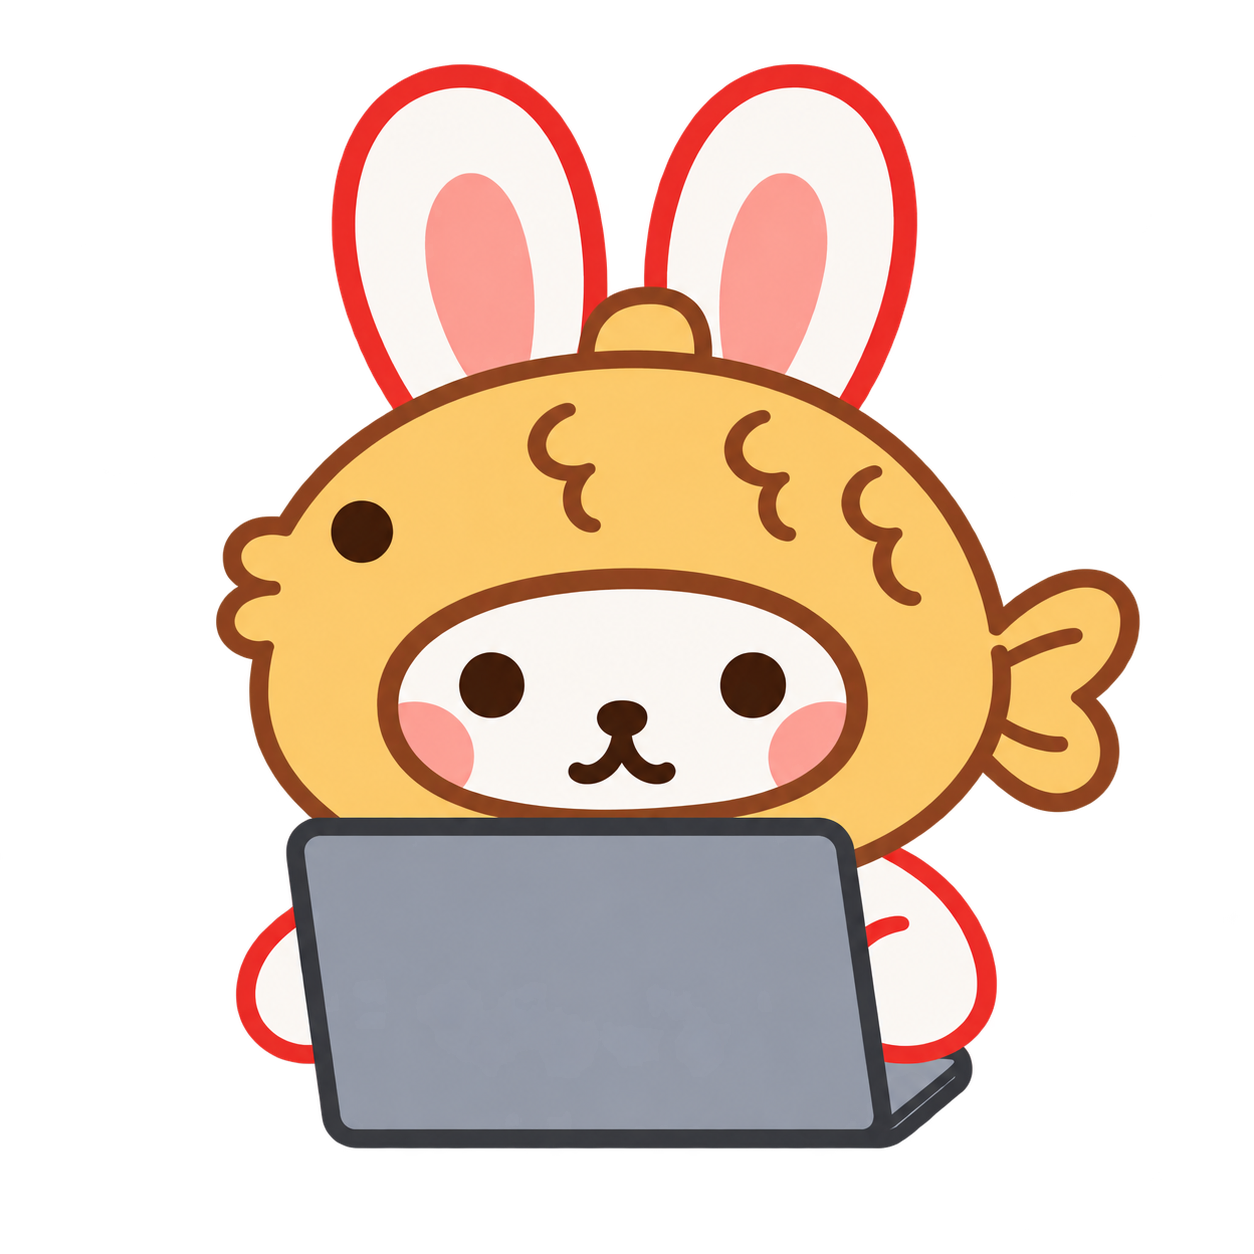
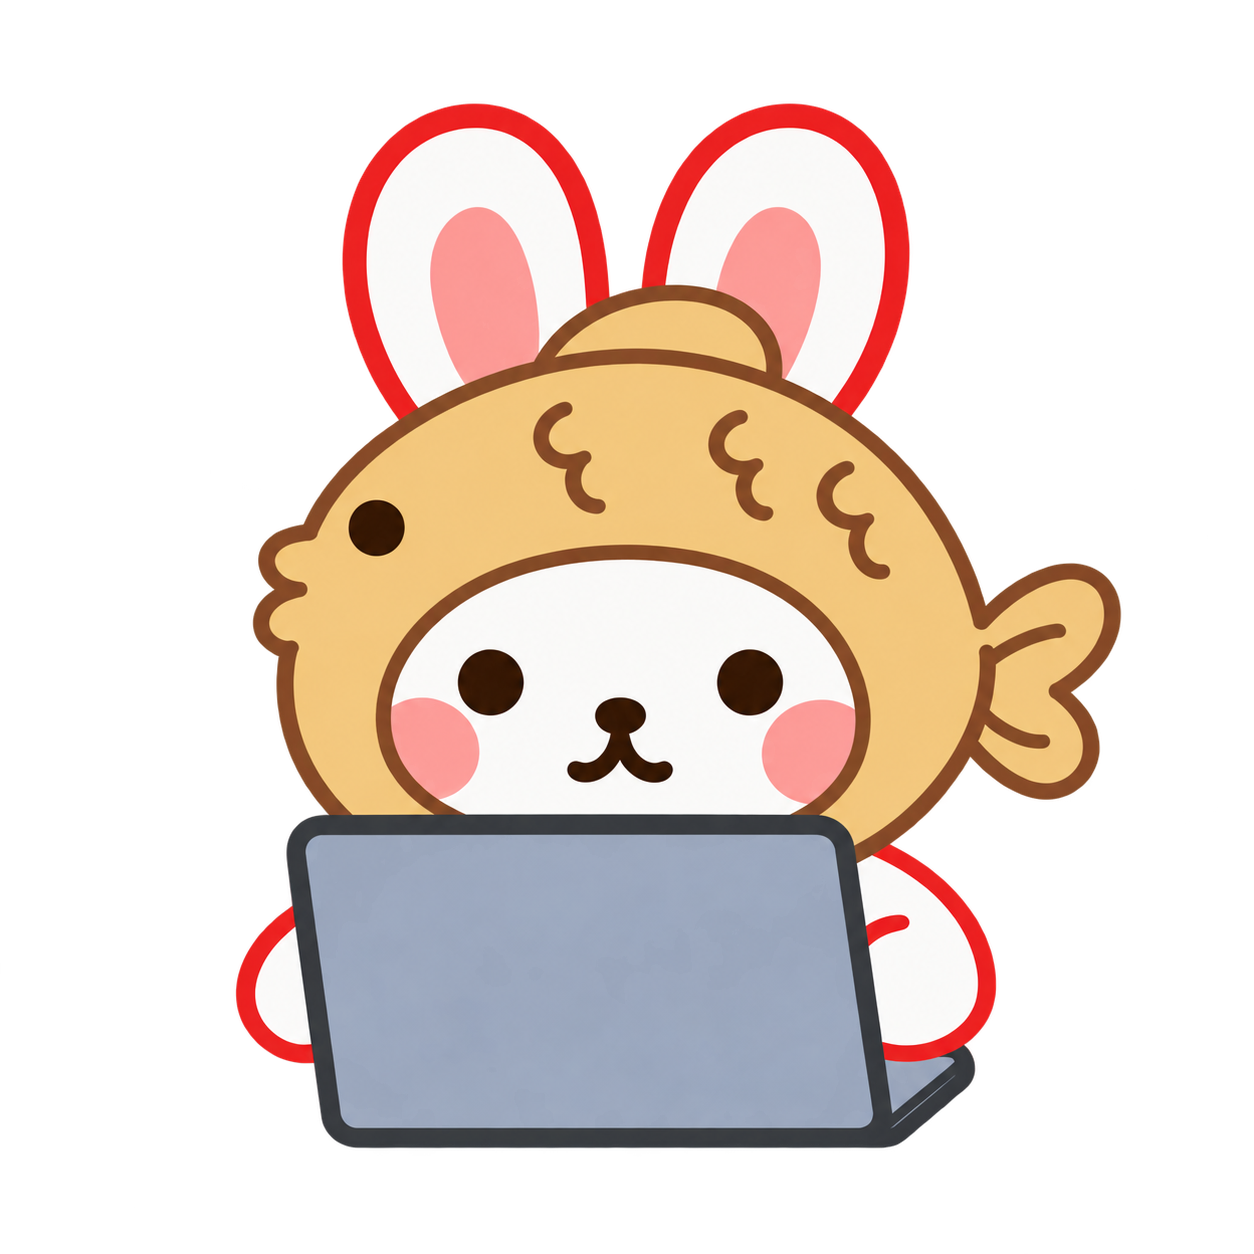
feat: finalize bungeoppang previews and synchronized steam

diff --git a/stories/screens/StudyLayouts.tsx b/stories/screens/StudyLayouts.tsx
@@ -15,10 +15,12 @@ import { useEffect, useState } from 'react';
 import { Image, Pressable, ScrollView, StyleSheet, Text, View } from 'react-native';
 import { AchievementBadge, Button, PressableCard } from '../../src/design/components';
 import { colors, interaction, radius, typography } from '../../src/design/theme';
+import type { CharacterId } from '../../src/lib/characters';
 const imageSource = (asset: number | string) => typeof asset === 'string' ? { uri: asset } : asset;
 const characters = [bunny, bear, cat, puppy];
 
 export type LayoutProps = {
+  character?: CharacterId;
   activeSkinId?: string;
   screen: 'home' | 'focus';
   homeEntryPreview?: boolean;
@@ -45,7 +47,7 @@ function Progress({ seconds, goalMinutes, todayLeave = false }: { seconds: numbe
   return <View style={s.progressRow}><View accessibilityRole="progressbar" accessibilityLabel="목표 달성률" accessibilityValue={percent === null ? { text: '목표 없음' } : { min: 0, max: 100, now: Math.min(percent, 100), text: `${percent}%` }} style={[s.track, todayLeave && { backgroundColor: colors.leaveTrack }]}><View style={[s.fill, { width: `${Math.min(percent ?? 0, 100)}%` }]} /></View><Text style={s.secondary}>{percent === null ? '—' : `${percent}%`}</Text></View>;
 }
 // Storybook-only presentation: no identity, API, router, or running study session.
-export function StudyLayout({ screen, activeSkinId, homeEntryPreview = false, todayLeave = false, onOpenLeave, running = true, seconds: initialSeconds = 4815, goalMinutes = 180, activeFriendCount = 2, name = '다이앤', width = 390, height = 844 }: LayoutProps) {
+export function StudyLayout({ screen, character = 'bunny', activeSkinId, homeEntryPreview = false, todayLeave = false, onOpenLeave, running = true, seconds: initialSeconds = 4815, goalMinutes = 180, activeFriendCount = 2, name = '다이앤', width = 390, height = 844 }: LayoutProps) {
   const [activeScreen, setActiveScreen] = useState(screen);
   const [isRunning, setRunning] = useState(running);
   const [seconds, setSeconds] = useState(initialSeconds);
@@ -88,7 +90,7 @@ export function StudyLayout({ screen, activeSkinId, homeEntryPreview = false, to
       {activeScreen === 'home' ? <>
         <View style={s.summary}><Text style={[s.body, { fontWeight: '600' }]}>오늘 공부한 시간</Text><View style={s.timeRow}>{homeEntryPreview && <StudyControlView round roundSize={56} running={isRunning} onPress={() => setRunning(value => !value)} />}<Text numberOfLines={1} adjustsFontSizeToFit style={[s.metric, s.timeValue, homeEntryPreview && { fontSize: width < 360 ? 34 : 44 }]}>{clock(seconds)}</Text>{achieved && !homeEntryPreview && <View style={s.timeBadge}><AchievementBadge label="달성 완료" /></View>}</View><Progress seconds={seconds} goalMinutes={goalMinutes} todayLeave={todayLeave} /><View style={{ flexDirection: 'row', flexWrap: 'wrap', alignItems: 'center', gap: 12 }}><Pressable accessibilityRole="button" accessibilityLabel={todayLeave ? '연차 탭으로 이동' : '오늘 목표 확인'} onPress={() => todayLeave ? onOpenLeave ? onOpenLeave() : setLeaveDetails(true) : feedback('목표')} style={{ minHeight: 44, flexDirection: 'row', alignItems: 'center', gap: 6 }}><Text style={[s.secondary, todayLeave && { color: colors.leave }]}>{todayLeave ? '✈  오늘 연차' : goal}</Text><ChevronRight size={16} color={todayLeave ? colors.leave : colors.secondary} /></Pressable>{homeEntryPreview && achieved && <AchievementBadge label="달성 완료" />}</View></View>
         <View onLayout={({ nativeEvent }) => setHomeSize(nativeEvent.layout)} style={[s.homeScene, homeEntryPreview && { minHeight: 180, paddingBottom: 0 }]}>
-          {activeSkinId ? <HomeArtwork character="bunny" activeSkinId={activeSkinId} width={homeSize.width} height={homeSize.height} /> : <><Image source={imageSource(homeBackground)} resizeMode="contain" style={backgroundFrame} accessibilityLabel="햇살이 드는 공부방" />
+          {activeSkinId || character !== 'bunny' ? <HomeArtwork character={character} activeSkinId={activeSkinId} width={homeSize.width} height={homeSize.height} /> : <><Image source={imageSource(homeBackground)} resizeMode="contain" style={backgroundFrame} accessibilityLabel="햇살이 드는 공부방" />
           <Image source={imageSource(homeBunny)} resizeMode="contain" style={characterFrame} accessibilityLabel={`${name}의 토끼 캐릭터`} /></>}
           <View style={[s.homeSceneSpace, homeEntryPreview && { minHeight: 180 }]} />
         {homeEntryPreview && friendCount > 0 && <>           <View style={s.friendToast} accessibilityLabel={friendMessage}>
@@ -108,7 +110,7 @@ export function StudyLayout({ screen, activeSkinId, homeEntryPreview = false, to
           <Button label={isRunning ? 'Ⅱ  일시정지' : '▶  공부 시작'} accessibilityLabel={isRunning ? '공부 일시정지' : '공부 시작'} onPress={() => { if (isRunning) setRunning(false); else { setRunning(true); move('focus'); } }} style={{ flex: 1 }} />}
         </View>
       </> : <>
-        <FocusView members={[{ id: 'self', name, time: '나', active: isRunning, character: 'bunny', activeSkinId, self: true }, ...friends.map((friend, index) => ({ id: String(index), name: friend.name, time: friend.time, active: index < friendCount, character: (['bear', 'cat', 'puppy'] as const)[index] }))]} memberCount={4} seconds={seconds} sessionSeconds={28 * 60} goalMinutes={goalMinutes} running={isRunning} onBack={() => move('home')} onFriends={() => feedback('친구')} onToggle={() => setRunning(!isRunning)} />
+        <FocusView members={[{ id: 'self', name, time: '나', active: isRunning, character, activeSkinId, self: true }, ...friends.map((friend, index) => ({ id: String(index), name: friend.name, time: friend.time, active: index < friendCount, character: (['bear', 'cat', 'puppy'] as const)[index] }))]} memberCount={4} seconds={seconds} sessionSeconds={28 * 60} goalMinutes={goalMinutes} running={isRunning} onBack={() => move('home')} onFriends={() => feedback('친구')} onToggle={() => setRunning(!isRunning)} />
       </>}
       {!!notice && <Pressable accessibilityRole="button" accessibilityLabel="미리보기 안내 닫기" onPress={() => setNotice('')} style={s.notice}><Text accessibilityLiveRegion="polite" style={s.caption}>{notice}  ×</Text></Pressable>}
     </ScrollView>

diff --git a/stories/assets/SkinPlacement.stories.tsx b/stories/assets/SkinPlacement.stories.tsx
@@ -2,6 +2,7 @@ import type { Meta, StoryObj } from '@storybook/react-native-web-vite';
 import { useState } from 'react';
 import { Text, View } from 'react-native';
 import { Button } from '../../src/design/components';
+import { characters } from '../../src/features/profile/CharacterPicker';
 import { skinArtwork } from '../../src/design/skin-artwork';
 import { colors, typography } from '../../src/design/theme';
 import { StudyLayout } from '../screens/StudyLayouts';
@@ -11,6 +12,7 @@ type Props = { skinId: string; screen: 'home' | 'focus' | 'comparison'; width: n
 
 function SkinPlacement({ skinId, screen, width, height, compareOriginal }: Props) {
   const [selected, setSelected] = useState(skinId);
+  const character = skinArtwork[selected]?.character ?? 'bunny';
   const screens = screen === 'comparison' ? ['home', 'focus'] as const : [screen];
   const variants = compareOriginal ? [undefined, selected] : [selected];
   return <View style={{ width: '100%', gap: 24, alignItems: 'center' }}>
@@ -25,12 +27,12 @@ function SkinPlacement({ skinId, screen, width, height, compareOriginal }: Props
       <Text style={{ ...typography.title, color: colors.text, textAlign: 'center' }}>{current === 'home' ? '홈 화면' : '집중 화면'}</Text>
       <View style={{ flexDirection: 'row', flexWrap: 'wrap', justifyContent: 'center', gap: 24 }}>
         {variants.map(id => <View key={id ?? 'original'} style={{ gap: 8, maxWidth: '100%' }}>
-          <Text style={{ ...typography.label, color: colors.text, textAlign: 'center' }}>{id ? skinArtwork[id]?.name : '기본 토끼'} · {width}px</Text>
-          {current === 'home' ? <StudyLayout key={`${current}-${id}-${width}-${height}`} screen="home" activeSkinId={id} width={width} height={height} running={false} homeEntryPreview /> : <View style={{ width, height, maxWidth: '100%', borderRadius: 32, borderWidth: 1, borderColor: colors.border, overflow: 'hidden', backgroundColor: colors.background }}>
+          <Text style={{ ...typography.label, color: colors.text, textAlign: 'center' }}>{id ? skinArtwork[id]?.name : `기본 ${characters[character].label}`} · {width}px</Text>
+          {current === 'home' ? <StudyLayout key={`${current}-${id}-${width}-${height}`} screen="home" character={character} activeSkinId={id} width={width} height={height} running={false} homeEntryPreview /> : <View style={{ width, height, maxWidth: '100%', borderRadius: 32, borderWidth: 1, borderColor: colors.border, overflow: 'hidden', backgroundColor: colors.background }}>
             <View style={{ height: 44, paddingHorizontal: 24, justifyContent: 'center' }}><Text style={{ color: colors.text }}>9:41</Text></View>
             <FocusView initialSceneSize={{ width, height: Math.max(240, height - 394) }} members={[
-              { id: 'self', name: '나', time: '1시간 20분', character: 'bunny', activeSkinId: id, self: true, active: true },
-              { id: 'baseline', name: '기본 토끼', time: '53분', character: 'bunny', active: true },
+              { id: 'self', name: '나', time: '1시간 20분', character, activeSkinId: id, self: true, active: true },
+              { id: 'baseline', name: `기본 ${characters[character].label}`, time: '53분', character, active: true },
               { id: 'bear', name: '곰', time: '2시간', character: 'bear', active: true },
               { id: 'cat', name: '고양이', time: '32분', character: 'cat', active: true },
             ]} memberCount={4} seconds={4815} sessionSeconds={1680} goalMinutes={180} running={false} onBack={() => {}} onFriends={() => {}} onToggle={() => {}} />

diff --git a/src/features/study/SkinEffects.tsx b/src/features/study/SkinEffects.tsx
@@ -25,28 +25,25 @@ function useMotionAllowed() {
 }
 
 function Steam({ placement, width, height, phase, strength }: { placement: SkinEffectPlacement; width: number; height: number; phase: number; strength: number }) {
-  const [values] = useState(() => [new Animated.Value(0), new Animated.Value(0)]);
+  const [value] = useState(() => new Animated.Value(0));
   const plumeWidth = placement.width * width;
   const peakOpacity = Math.min(1, placement.opacity * strength);
   useEffect(() => {
-    const loops = values.map((value, index) => {
-      value.setValue(0);
-      const loop = Animated.sequence([
-        Animated.delay(phase + index * 1400),
-        Animated.loop(Animated.sequence([
-          Animated.timing(value, { toValue: 1, duration: 2800, easing: Easing.linear, useNativeDriver: Platform.OS !== 'web', isInteraction: false }),
-          Animated.timing(value, { toValue: 0, duration: 0, useNativeDriver: Platform.OS !== 'web', isInteraction: false }),
-          Animated.delay(1000),
-        ])),
-      ]);
-      loop.start();
-      return loop;
-    });
-    return () => loops.forEach(loop => loop.stop());
-  }, [phase, values]);
+    value.setValue(0);
+    const loop = Animated.sequence([
+      Animated.delay(phase),
+      Animated.loop(Animated.sequence([
+        Animated.timing(value, { toValue: 1, duration: 2800, easing: Easing.linear, useNativeDriver: Platform.OS !== 'web', isInteraction: false }),
+        Animated.timing(value, { toValue: 0, duration: 0, useNativeDriver: Platform.OS !== 'web', isInteraction: false }),
+        Animated.delay(1000),
+      ])),
+    ]);
+    loop.start();
+    return () => loop.stop();
+  }, [phase, value]);
   return <View pointerEvents="none" accessibilityElementsHidden importantForAccessibility="no-hide-descendants" style={{ position: 'absolute', left: placement.x * width - plumeWidth / 2, top: placement.y * height - plumeWidth * .7, width: plumeWidth, height: plumeWidth }}>
-    {values.map((value, index) => <Animated.View key={index} style={{ position: 'absolute', width: plumeWidth, height: plumeWidth, opacity: value.interpolate({ inputRange: [0, .2, .65, 1], outputRange: [0, peakOpacity, peakOpacity * .7, 0] }), transform: [{ translateY: value.interpolate({ inputRange: [0, 1], outputRange: [0, -plumeWidth * .8] }) }, { translateX: value.interpolate({ inputRange: [0, .5, 1], outputRange: [index * plumeWidth * .22, (index ? .1 : -.12) * plumeWidth, (index ? .2 : -.2) * plumeWidth] }) }] }}>
-      <Svg width="100%" height="100%" viewBox="0 0 60 60"><Path d="M 26 56 C 41 45 12 35 27 24 C 37 16 23 10 28 3" fill="none" stroke="#FFF2D9" strokeWidth={4} strokeLinecap="round" /></Svg>
+    {[0, 1, 2].map(index => <Animated.View key={index} style={{ position: 'absolute', width: plumeWidth, height: plumeWidth, opacity: value.interpolate({ inputRange: [0, .2, .65, 1], outputRange: [0, peakOpacity, peakOpacity * .7, 0] }), transform: [{ translateY: value.interpolate({ inputRange: [0, 1], outputRange: [0, -plumeWidth * .8] }) }, { translateX: value.interpolate({ inputRange: [0, .5, 1], outputRange: [(index - 1) * plumeWidth * .32, ((index - 1) * .32 + .06) * plumeWidth, ((index - 1) * .32 - .06) * plumeWidth] }) }] }}>
+      <Svg width="100%" height="100%" viewBox="0 0 60 60"><Path d="M 26 56 C 41 45 12 35 27 24 C 37 16 23 10 28 3" fill="none" stroke="#FFF2D9" strokeWidth={7} strokeLinecap="round" /></Svg>
     </Animated.View>)}
   </View>;
 }
